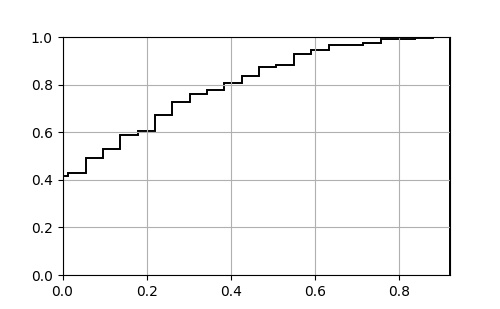
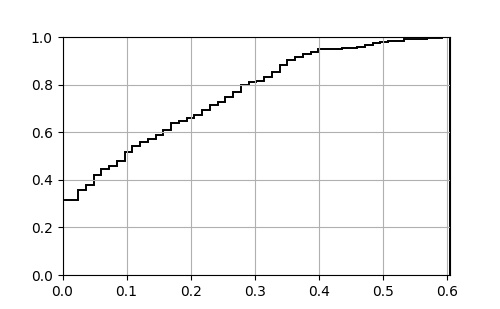
save

diff --git a/src/DMpre.py b/src/DMpre.py
@@ -3,8 +3,8 @@ from basic.globalvar import *
 class DM(object):
     def __init__(self,phyData,Refactory,Tdfactory,Migfactory,Linkfactory,migration_gate):
         self.reroute_links={} ## {time step:{sfc_id:{logic_link_id:[new links]},{}}
-        self.reroute_links_count=0
-        self.replacement_vnf_count=0
+        self.reroute_links_count=[0 for i in range(8)]
+        self.replacement_vnf_count=[0 for i in range(8)]
         self.migration_SFC={} ## {time step:{sfc_id:{vnf_id},{}}
         self.phyData=phyData
         self.EM_graph={}
@@ -20,9 +20,9 @@ class DM(object):
         self.migration_gate = migration_gate
         Refactor = 0.6
         self.sfc_need_mig={}
-    def resetCount(self):
-        self.reroute_links_count=0
-        self.replacement_vnf_count=0
+    # def resetCount(self):
+    #     self.reroute_links_count=0
+    #     self.replacement_vnf_count=0
 
     def EM(self,sfc_list):
         self.EM_graph[0],self.node_list_status,self.sfc_list_status=EM_embeding(phyData=phyData,\
@@ -34,8 +34,8 @@ class DM(object):
             sfc_list=sfc_list,Tdfactory=self.Tdfactory,Refactory=self.Refactory,Migfactory=self.Migfactory)
         self.time_step=1
 
-    def EM_RD(self,sfc_list):
-        self.EM_graph[0],self.node_list_status,self.sfc_list_status=EM_embeding_RD(phyData=phyData,\
+    def EM_SNH(self,sfc_list):
+        self.EM_graph[0],self.node_list_status,self.sfc_list_status=EM_embeding_SNH(phyData=phyData,\
             sfc_list=sfc_list,Tdfactory=self.Tdfactory,Refactory=self.Refactory,Migfactory=self.Migfactory)
         self.time_step=1
 
@@ -101,7 +101,6 @@ class DM(object):
                 ### release old links only in EM_graph not in SFC_LIST
                 self.release_SFC_links(sfc_id=sfc_id)
                 self.reroute_links[self.time_step][sfc_id] = self.reroute_sfc(sfc_id)
-                self.reroute_links_count+=1
             ### reroute sfc
             else:
                 print("SFC need migration")
@@ -161,7 +160,7 @@ class DM(object):
             logic_link_reroute[logic_link] = embed_links
             sfc_ins.Mapping_Link(logic_link_id=logic_link,phy_links=embed_links)
             update_link_status(sfc_ins,embed_links,self.EM_graph[self.time_step])
-            self.reroute_links_count+=1
+            self.reroute_links_count[self.sfc_list_status[sfc_id].VNFnum]+=1
         return logic_link_reroute
     #def release_links(self,EM_graph,reroute_links):
 
@@ -220,7 +219,7 @@ class DM(object):
             ## Node to place VNF 
             node_index = embed_node
             if node_index != sfc_node_map_pre[vnf]:
-                self.replacement_vnf_count+=1
+                self.replacement_vnf_count[self.sfc_list_status[sfc_id].VNFnum]+=1
             embed_links = []
             if node_index == sfc_src:
                 embed_links.insert(0,(preNode_src[node_index],node_index))
@@ -234,7 +233,7 @@ class DM(object):
                 update_link_status(sfc_ins,embed_links,self.EM_graph[self.time_step])
             
             if embed_links != sfc_link_map_pre[vnf-1]:
-                self.reroute_links_count+=1
+                self.reroute_links_count[self.sfc_list_status[sfc_id].VNFnum]+=1
             
 
             if vnf == sfc_ins.VNFnum:
@@ -250,7 +249,9 @@ class DM(object):
                     sfc_ins.Mapping_Link(logic_link_id=vnf,phy_links=embed_dst_links)
                     update_link_status(sfc_ins,embed_dst_links,self.EM_graph[self.time_step])
                 if embed_dst_links != sfc_link_map_pre[vnf]:
-                    self.reroute_links_count+=1
+                    self.reroute_links_count[self.sfc_list_status[sfc_id].VNFnum]+=1
+
+
              ## input EM graph
             ## cal weight of links 
             ## cal weight of Nodes
@@ -282,13 +283,13 @@ class DM(object):
             for node2 in self.EM_graph[self.time_step-1][node1]:
                 linkBwRe.append(self.EM_graph[self.time_step-1][node1][node2][2])
         linkBwRe = np.array(linkBwRe)
-        linkConsum=1-linkBwRe/100
+        linkConsum=1-linkBwRe/200
 
         Delay = []
         for sfc_ins in self.sfc_list_status:
             sfc_ins.delayCount(self.EM_graph[self.time_step-1])
-            Delay.append(sfc_ins.delay)
-
+            Delay.append(sfc_ins.delay/(sfc_ins.VNFnum+1))
+        Delay=np.array(Delay)
         draw_CDF(data=CPUconsum,graph_name="fig/"+figureName+"CPU"+".jpg")
         draw_CDF(data=linkConsum,graph_name="fig/"+figureName+"BW"+".jpg")
         draw_CDF(data=Delay,graph_name="fig/"+figureName+"Delay"+".jpg")
@@ -345,44 +346,71 @@ def draw_CDF(data,graph_name):
                   'size'   : 16.5} 
     
     plt.savefig(graph_name)
+    plt.close()
     #plt.show()
-
+def count_cpu_overflow(CPUconsum):
+    count = 0
+    for i in range(len(CPUconsum)):
+        if i > 90:
+            count+=1
+    return count 
 
 if __name__ == '__main__':
     phyData = read_csv_file()
     sfc_list = gen_SFC_list()
     sfc_list2 = copy.deepcopy(sfc_list)
     sfc_list3=copy.deepcopy(sfc_list)
+    sfc_list4=copy.deepcopy(sfc_list)
+
+    sfc_len_count=[0 for i in range(8)]
+    for sfc in sfc_list:
+        sfc_len_count[sfc.VNFnum]+=1
+
     ## get previous topo info
-    caelus = DM(phyData=phyData,Refactory=1,Tdfactory=1,Migfactory=1,Linkfactory=1,migration_gate=1/2) 
+    caelus = DM(phyData=phyData,Refactory=1,Tdfactory=1,Migfactory=1,Linkfactory=1,migration_gate=2) 
     caelus.EM(sfc_list)
     caelusCPUconsum,caeluslinkConsum,caelusDelay=caelus.draw_cdf(figureName="caelus-EM")
+    caelusCPUover = count_cpu_overflow(caelusCPUconsum)
     for i in range(90):
         caelus.migrate_EM_graph()
         caelus.check_sfc()
         caelus.modify_sfc()
     caelus.draw_cdf(figureName="caelus-DM")
-
+    caelusLinkRe =  np.array(caelus.reroute_links_count[2:7]) / np.array(sfc_len_count[2:7])
 
     ## get previous topo info
-    MMT = DM(phyData=phyData,Refactory=0.1,Tdfactory=1,Migfactory=10,Linkfactory=1,migration_gate=1/2) 
+    MMT = DM(phyData=phyData,Refactory=0.1,Tdfactory=1,Migfactory=10,Linkfactory=1,migration_gate=2) 
     MMT.EM(sfc_list2)
     MMTCPUconsum,MMTlinkConsum,MMTDelay=MMT.draw_cdf(figureName="MMT-EM")
+    MMTCPUover = count_cpu_overflow(MMTCPUconsum)
     for i in range(90):
         MMT.migrate_EM_graph()
         MMT.check_sfc()
         MMT.modify_sfc()
     MMT.draw_cdf(figureName="RO-DM")
+    MMTLinkRe =  np.array(MMT.reroute_links_count[2:7]) / np.array(sfc_len_count[2:7])
 
-    GLL = DM(phyData=phyData,Refactory=3,Tdfactory=5,Migfactory=1,Linkfactory=1,migration_gate=1/2) 
-    GLL.EM(sfc_list3)
+    GLL = DM(phyData=phyData,Refactory=5,Tdfactory=5,Migfactory=1,Linkfactory=1,migration_gate=2) 
+    GLL.EM_GLL(sfc_list3)
     GLLCPUconsum,GLLlinkConsum,GLLDelay=GLL.draw_cdf(figureName="GLL-EM")
+    GLLCPUover = count_cpu_overflow(GLLCPUconsum)
     for i in range(90):
         GLL.migrate_EM_graph()
         GLL.check_sfc()
         GLL.modify_sfc()
     GLL.draw_cdf(figureName="GLL-DM")
+    GLLLinkRe =  np.array(GLL.reroute_links_count[2:7]) / np.array(sfc_len_count[2:7])
 
+    SNH = DM(phyData=phyData,Refactory=1,Tdfactory=1,Migfactory=1,Linkfactory=1,migration_gate=2) 
+    SNH.EM_SNH(sfc_list4)
+    SNHCPUconsum,SNHlinkConsum,SNHDelay=SNH.draw_cdf(figureName="SNH-EM")
+    SNHCPUover = count_cpu_overflow(SNHCPUconsum)
+    for i in range(90):
+        SNH.migrate_EM_graph()
+        SNH.check_sfc()
+        SNH.modify_sfc()
+    SNH.draw_cdf(figureName="SNH-DM")
+    SNHLinkRe =  np.array(SNH.reroute_links_count[2:7]) / np.array(sfc_len_count[2:7])
 
     #graph_raw,node_list_pre,sfc_list = EM_embeding(phyData=phyData)
     ## generate new topo

diff --git a/src/EM.py b/src/EM.py
@@ -218,6 +218,84 @@ def embedingSFC_GLL(EM_graph,sfc_list,node_list,Tdfactory,Refactory,Migfactory):
                     update_link_status(sfc_ins,embed_dst_links,EM_graph)
 
 
+def embedingSFC_SNH(EM_graph,sfc_list,node_list,Tdfactory,Refactory,Migfactory):
+    for sfc_ins in sfc_list:
+        #print("embedding sfc:",sfc_ins.id)
+        for vnf in sfc_ins.vnfList:
+            sfc_dst=sfc_ins.dst
+            
+            if vnf == 1:
+                sfc_src = sfc_ins.src
+            else:
+                sfc_src=sfc_ins.nodesMap[vnf-1]
+            ## calculate the weight graph
+            weight_graph = cal_links_weight(sfc_ins,EM_graph,Tdfactory=Tdfactory,Refactory=Refactory,Migfactory=Migfactory)
+            Node_weight_matrix = cal_node_weight(sfc_instance=sfc_ins,vnf_id=vnf,node_list=node_list,Refactory=Refactory)
+            Node_weight_matrix=np.array(Node_weight_matrix)
+            ### calculate the embeding cost matrix
+            distance_from_src,preNode_src = findShortestPath(sfc_src,weight_graph)
+            distance_from_dst,preNode_dst = findShortestPath(sfc_dst,weight_graph)
+            
+            #link_cost = link_cost
+            distance_from_src,preNode_src = findShortestPath(sfc_src,weight_graph)
+            distance_from_dst,preNode_dst = findShortestPath(sfc_dst,weight_graph)
+
+            link_cost = (sfc_ins.VNFnum-vnf+1)/(sfc_ins.VNFnum-vnf+2)*distance_from_src + \
+                1/(sfc_ins.VNFnum-vnf+2)*distance_from_dst
+            
+            link_cost = link_cost
+            totalCost = link_cost/link_cost.clip(0,100).mean()
+
+            
+            cost = min(totalCost)
+            
+            ## find the embeding node and links
+            embed_node = 0
+
+            if node_list[sfc_src].cpuRe*node_list[sfc_src].cpuCap > sfc_ins.vnfList[vnf][1]:
+                embed_node = sfc_src
+            else:
+                embed_node = np.argmin(totalCost)
+                totalCost[embed_node] = 10000
+                embed_node = np.argmin(totalCost)
+
+                while node_list[embed_node].cpuRe*node_list[embed_node].cpuCap < sfc_ins.vnfList[vnf][1]:
+                    embed_node = random.randint(0,59)
+
+            embed_res = node_list[embed_node].embedVNF(sfc_ins,vnf_id=vnf)
+            if embed_res==0:
+                print("embed sfc ",sfc_ins.id,"failed.")
+                break
+            ## iteration to find the link list 
+            ## Node to place VNF 
+            node_index = embed_node
+
+            embed_links = []
+            if node_index == sfc_src:
+                embed_links.insert(0,(preNode_src[node_index],node_index))
+                sfc_ins.Mapping_Link(logic_link_id=vnf-1,phy_links=embed_links)
+            else:
+                while node_index != sfc_src:
+                    embed_links.insert(0,(preNode_src[node_index],node_index))
+                    node_index = preNode_src[node_index]
+                
+                sfc_ins.Mapping_Link(logic_link_id=vnf-1,phy_links=embed_links)
+                update_link_status(sfc_ins,embed_links,EM_graph)
+            
+            if vnf == sfc_ins.VNFnum:
+                node_index = embed_node
+                embed_dst_links = []
+                if sfc_dst == node_index:
+                    embed_dst_links=[(node_index,sfc_dst)]
+                    sfc_ins.Mapping_Link(logic_link_id=vnf,phy_links=embed_dst_links)
+                else:
+                    while node_index != sfc_dst:
+                        embed_dst_links.append((node_index,preNode_dst[node_index]))
+                        node_index = preNode_dst[node_index]
+                    sfc_ins.Mapping_Link(logic_link_id=vnf,phy_links=embed_dst_links)
+                    update_link_status(sfc_ins,embed_dst_links,EM_graph)
+
+
 def EM_embeding(phyData,sfc_list,Tdfactory,Refactory,Migfactory):
     ## get EM graph
     graph_raw = create_EM_graph(phyData=phyData,time_step=0) ## EM graph : 
@@ -232,19 +310,19 @@ def EM_embeding(phyData,sfc_list,Tdfactory,Refactory,Migfactory):
     #Node_weight_matrix = cal_node_weight(sfc_list[0],1,node_list)
     
     embedingSFC(graph_raw,sfc_list,node_list,Tdfactory,Refactory,Migfactory)
-    nodeCPURe = []
-    for node in node_list:
-        nodeCPURe.append(node_list[node].cpuRe)
-    nodeCPURe = np.array(nodeCPURe)
-    CPUconsum=1-nodeCPURe
-    #draw_CDF(CPUconsum,graph_name="BLCPU.jpg")
+    # nodeCPURe = []
+    # for node in node_list:
+    #     nodeCPURe.append(node_list[node].cpuRe)
+    # nodeCPURe = np.array(nodeCPURe)
+    # CPUconsum=1-nodeCPURe
+    # #draw_CDF(CPUconsum,graph_name="BLCPU.jpg")
 
-    linkBwRe = []
-    for node1 in graph_raw:
-        for node2 in graph_raw[node1]:
-            linkBwRe.append(graph_raw[node1][node2][2])
-    linkBwRe = np.array(linkBwRe)
-    linkConsum=1-linkBwRe/100
+    # linkBwRe = []
+    # for node1 in graph_raw:
+    #     for node2 in graph_raw[node1]:
+    #         linkBwRe.append(graph_raw[node1][node2][2])
+    # linkBwRe = np.array(linkBwRe)
+    # linkConsum=1-linkBwRe/100
     #draw_CDF(data=linkConsum,graph_name="BLBW.jpg")
     return graph_raw,node_list,sfc_list
 
@@ -261,19 +339,49 @@ def EM_embeding_GLL(phyData,sfc_list,Tdfactory,Refactory,Migfactory):
     #Node_weight_matrix = cal_node_weight(sfc_list[0],1,node_list)
     
     embedingSFC_GLL(graph_raw,sfc_list,node_list,Tdfactory,Refactory,Migfactory)
-    nodeCPURe = []
-    for node in node_list:
-        nodeCPURe.append(node_list[node].cpuRe)
-    nodeCPURe = np.array(nodeCPURe)
-    CPUconsum=1-nodeCPURe
+    # nodeCPURe = []
+    # for node in node_list:
+    #     nodeCPURe.append(node_list[node].cpuRe)
+    # nodeCPURe = np.array(nodeCPURe)
+    # CPUconsum=1-nodeCPURe
     #draw_CDF(CPUconsum,graph_name="BLCPU.jpg")
 
-    linkBwRe = []
-    for node1 in graph_raw:
-        for node2 in graph_raw[node1]:
-            linkBwRe.append(graph_raw[node1][node2][2])
-    linkBwRe = np.array(linkBwRe)
-    linkConsum=1-linkBwRe/100
+    # linkBwRe = []
+    # for node1 in graph_raw:
+    #     for node2 in graph_raw[node1]:
+    #         linkBwRe.append(graph_raw[node1][node2][2])
+    # linkBwRe = np.array(linkBwRe)
+    # linkConsum=1-linkBwRe/100
+    #draw_CDF(data=linkConsum,graph_name="BLBW.jpg")
+    return graph_raw,node_list,sfc_list
+
+def EM_embeding_SNH(phyData,sfc_list,Tdfactory,Refactory,Migfactory):
+    ## get EM graph
+    graph_raw = create_EM_graph(phyData=phyData,time_step=0) ## EM graph : 
+    ### init node list
+    node_list = init_nodes_list(graph_raw)
+    ### init SFC list
+    sfc_list = sfc_list
+        #embedingSFC(sfc_list=sfc_list,EM_graph=EM_graph)
+
+    ## test command for cal weight of links and nodes 
+    #weight_graph,EM_matrix = cal_links_weight(sfc_list[0],graph_raw)
+    #Node_weight_matrix = cal_node_weight(sfc_list[0],1,node_list)
+    
+    embedingSFC_SNH(graph_raw,sfc_list,node_list,Tdfactory,Refactory,Migfactory)
+    # nodeCPURe = []
+    # for node in node_list:
+    #     nodeCPURe.append(node_list[node].cpuRe)
+    # nodeCPURe = np.array(nodeCPURe)
+    # CPUconsum=1-nodeCPURe
+    #draw_CDF(CPUconsum,graph_name="BLCPU.jpg")
+
+    # linkBwRe = []
+    # for node1 in graph_raw:
+    #     for node2 in graph_raw[node1]:
+    #         linkBwRe.append(graph_raw[node1][node2][2])
+    # linkBwRe = np.array(linkBwRe)
+    # linkConsum=1-linkBwRe/100
     #draw_CDF(data=linkConsum,graph_name="BLBW.jpg")
     return graph_raw,node_list,sfc_list
 # if __name__ == '__main__':

diff --git a/src/basic/sfcGen.py b/src/basic/sfcGen.py
@@ -19,7 +19,7 @@ def SFC_gen(SFC_id,physical_Node_list=physical_Node_list,CpuRange=CpuRange,\
         VNFnum = random.randint(LengthRange[0],LengthRange[1])
     else:
         VNFnum=Length
-    VNF_list={i:(i,random.randint(CpuRange[0],CpuRange[1])) for i in range(1,VNFnum)}
+    VNF_list={i:(i,CpuRange[random.randint(0,len(CpuRange)-1)]) for i in range(1,VNFnum)}
     Bw = random.randint(BwRange[0],BwRange[1])
     Td = random.randint(TdRange[0],TdRange[1])
     newSFC = SFC(sfc_id=SFC_id, src=src, dst=dst, vnf_list=VNF_list, bw=Bw, td=Td)
@@ -29,7 +29,7 @@ def gen_SFC_list(SFCnum=SFCnum,LengthRange=LengthRange):
     for i in range(SFCnum):
         LengthR = LengthRange[1]-LengthRange[0]
         LengthR = SFCnum/LengthR
-        newSFC=SFC_gen(SFC_id = i,Length=round((SFCnum-i)/LengthR+LengthRange[0]))
+        newSFC=SFC_gen(SFC_id = i)
 
 
         #### need to modify and make sfc 

diff --git a/src/basic/globalvar.py b/src/basic/globalvar.py
@@ -1,13 +1,13 @@
 ### global var
 physical_Node_list = [i for i in range(60)]
-CpuRange = [8,16,32,48,96]
-LengthRange = (4,7) ## VNF numbers range
+CpuRange = [2,4,8,16,24]
+LengthRange = (3,7) ## VNF numbers range
 BwRange = (5,15)
 TdRange = (150,250)
-SFCnum = 100
+SFCnum = 200
 T_max = 92
-maxBW = 100
-cpuCap = 100
+maxBW = 200
+cpuCap = 200
 BIGNUM = 100000
 
 # Refactory = 1
